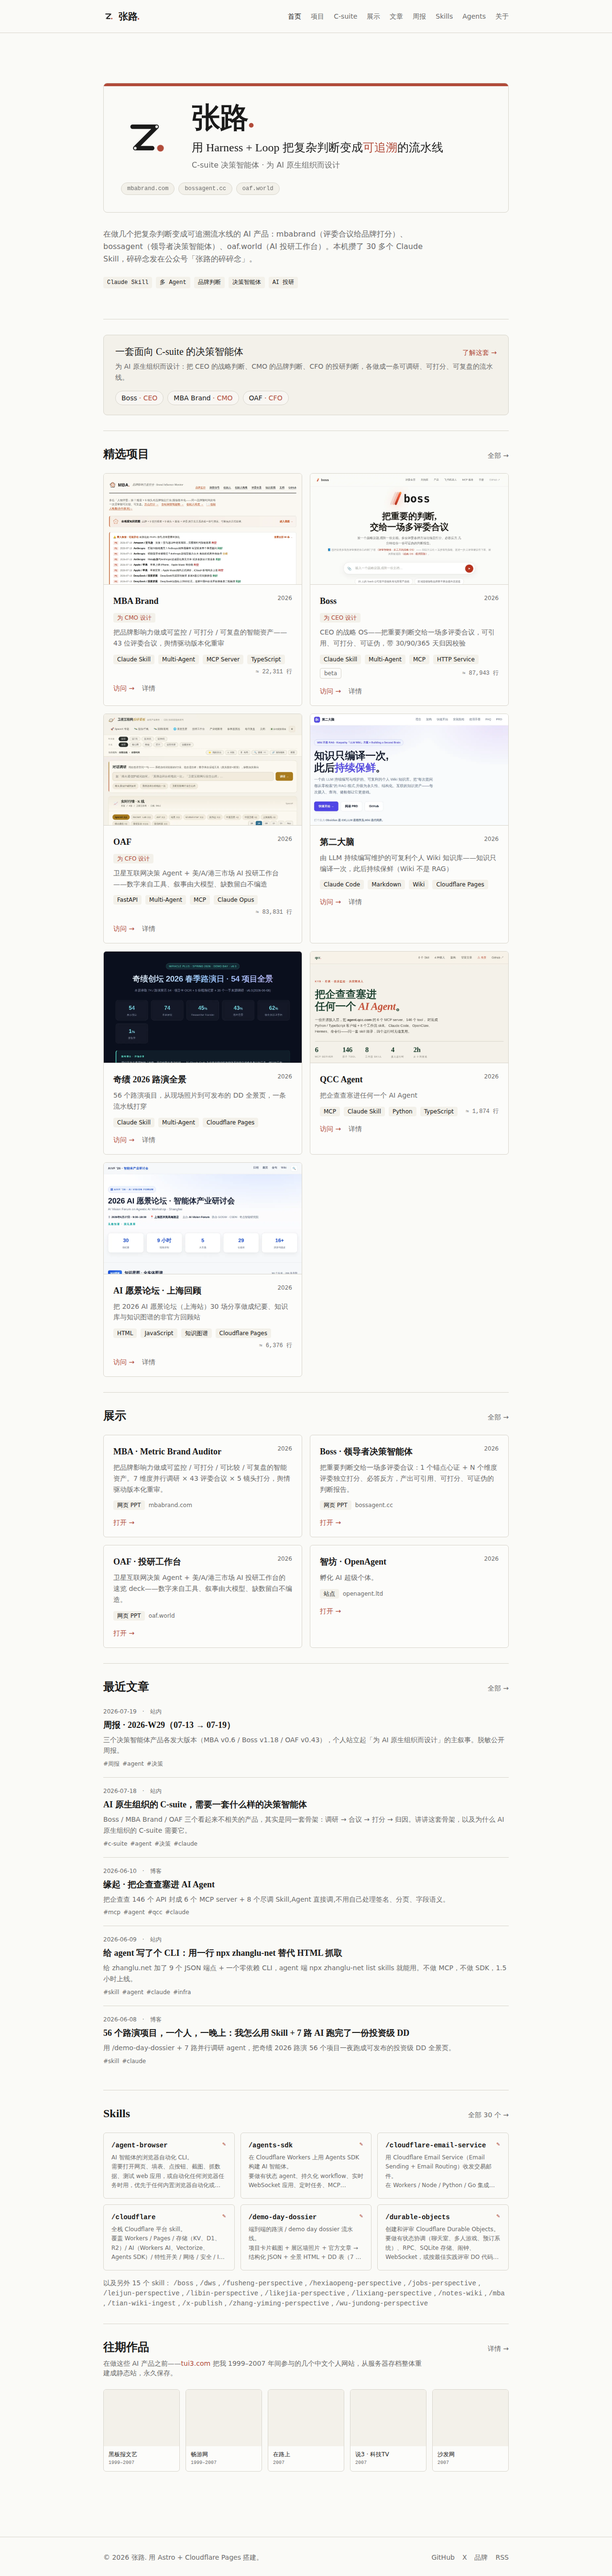
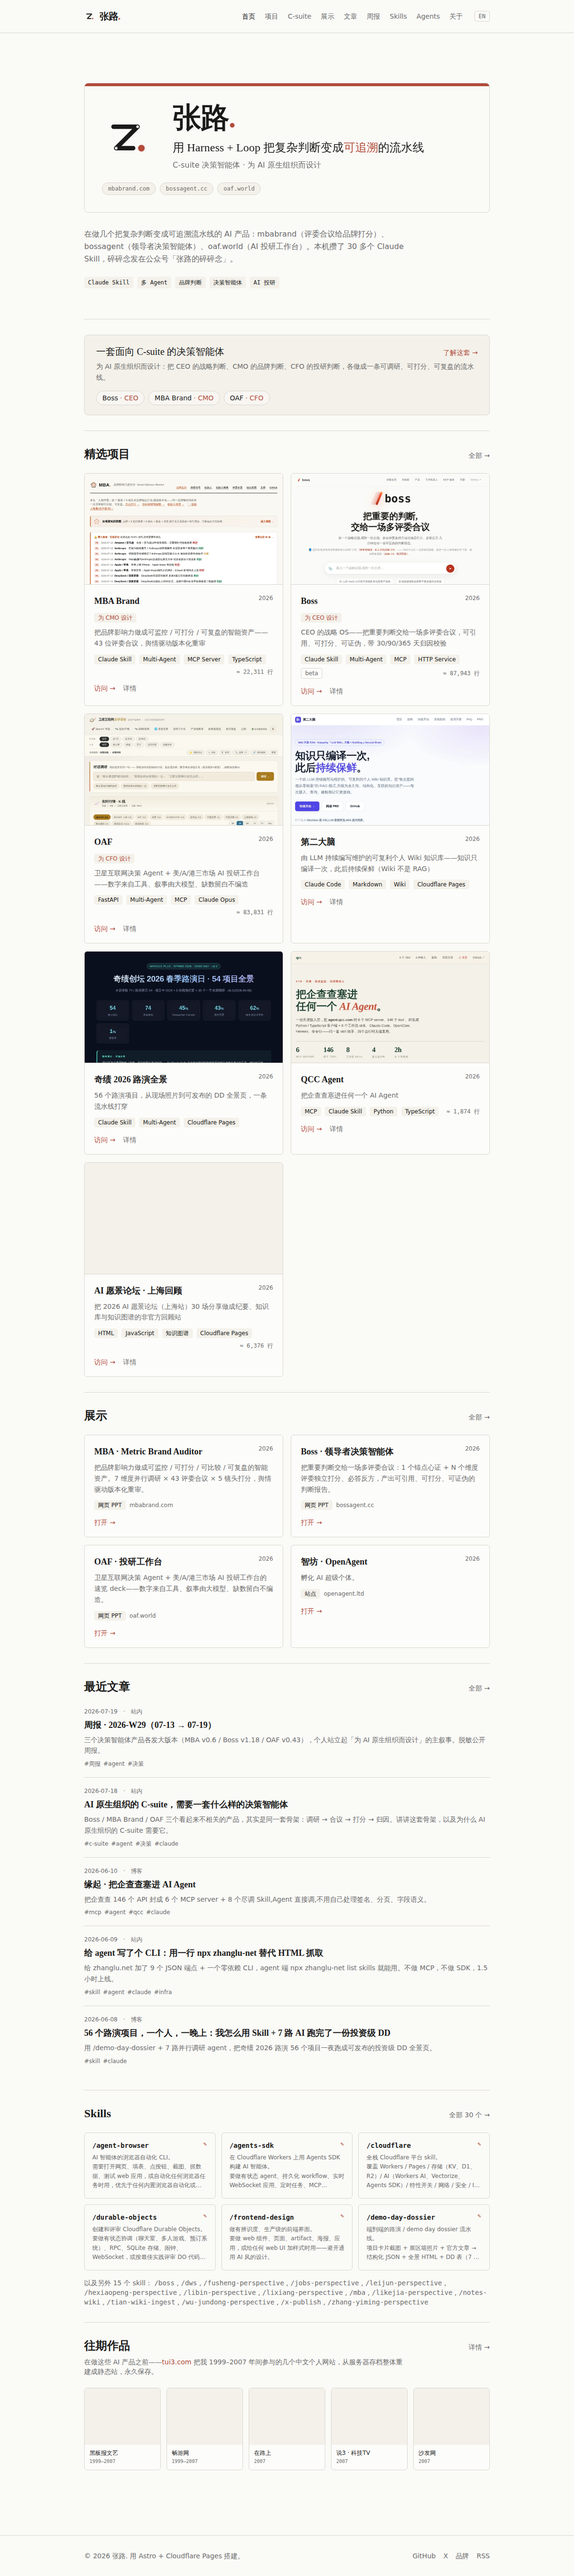
release: v0.3.0 —— 更新网站说明与接入指南
发版:
- package.json 0.2.0 → 0.3.0
- CHANGELOG 新增 [0.3.0]：按 新增/变更/修复/已知限制 覆盖 0.2.0 后的 30 个提交
  （全站双语、C-suite 专题与两套 logo、aip/tui3、周报、agent 接入层双语化、
  CLI 发 npm、真 404、_headers、Content-Signal、开发纪律）
- 顶部加版本号说明：本文件记站点版本，CLI 是独立 npm 包，两者不同步

接入指南 /agents + /en/agents:
- 新增「准入与授权」节：robots 全放行 + Content-Signal 三条立场逐条解释
  （可以读、可以引用，请别拿去训练）+ 引用礼仪 + 速率说明
- CLI 段改为「已发布在 npm」，版本号 build 时从 cli/package.json 读出来（别写死）

网站说明 README:
- 双语入口 + agent 入口；端点表补 presentations/weekly/en 平行版；
  CLI 示例补 list weekly / --lang en / help <command>
- 预览区加英文首页 + /agents 截图；重截 home.png
- 删掉「CDN cache 友好」的错误说法（实测 cf-cache-status: DYNAMIC）

AGENTS 去过时:
- §1 语言行改双语 + 加版本行；§3 目录树补 i18n/lib/*En/pages/en/404/_headers/cli/dev-log
- §11 快照更新，写明每集合有 1:1 英文平行版、改内容两边都要动

验证：pnpm run build → Complete（107 页）；/agents 双语渲染出 v0.2.0 与新章节，
无残留字面 markdown 星号。dev-log 一条（含截图被自适应跳转坑到的记录）。

tag / GitHub Release 按 §8.1 留给人完成。

diff --git a/AGENTS.md b/AGENTS.md
@@ -8,7 +8,8 @@
 
 ## 1. 项目概览
 
-**zhanglu.net** —— 张路的个人站。聚合：项目、公众号文章入口、本机 Claude Skills 索引、社交链接。
+**zhanglu.net** —— 张路的个人站。聚合：项目、展示、公众号文章入口、公开周报、本机 Claude Skills 索引、社交链接。
+**中英双语**（中文在 `/`，英文在 `/en/`，见 §16），并对外提供 agent 机读接口（见 §14）。
 
 | 维度 | 现状 |
 |---|---|
@@ -19,7 +20,8 @@
 | 托管 | Cloudflare Pages（project name: `zhanglu-net`），DNS 同账号托管 |
 | 部署触发 | push `main` → CF Pages 自动构建部署，~1-2 分钟上线 |
 | PR 预览 | 自动出 `<branch>.zhanglu-net.pages.dev` |
-| 语言 | 中文为主，前端 lang="zh-CN" |
+| 语言 | **中英双语**：zh 在根路径（`lang="zh-CN"`），en 在 `/en/`（`lang="en"`）。首访按浏览器语言自适应，页头可手动切换 |
+| 版本 | 站点 `package.json`（当前 0.3.0）；CLI 独立发布在 npm（`cli/package.json`），两者不同步 |
 | 视觉 | 书卷气、低饱和度、衬线标题（Source Serif / Noto Serif SC）、`#b14b3a` 朱砂色 accent |
 
 ---
@@ -61,6 +63,10 @@ zhanglu/
 ├── .gitignore
 │
 ├── public/                        ← 原样拷贝到站点根
+│   ├── _headers                   ← ★ CF Pages 响应头: 显式声明 /api/* 与 /en/api/* 的 CORS
+│   ├── llms.txt                   ← agent 自发现入口 (中文)
+│   ├── en/llms.txt                ← ★ 英文版
+│   ├── robots.txt                 ← allow all + Content-Signal (见 §9.10)
 │   ├── favicon.svg                ← 深底方形 + 反白 Z 路 + 朱砂句点 (zhanglu logo 简化版)
 │   ├── wechat-qr.jpg              ← 公众号「张路的碎碎念」二维码 (258×258)
 │   ├── og/                        ← OG 分享图 (1200×630), <Base image="/og/xxx.png"> 挂载
@@ -70,14 +76,26 @@ zhanglu/
 │
 ├── src/
 │   ├── content/
-│   │   ├── config.ts              ← Zod schemas (改这里 = 改全站数据契约)
+│   │   ├── config.ts              ← Zod schemas (改这里 = 改全站数据契约); zh 与 *En 共用同一份 schema
 │   │   ├── projects/              ← 一个项目 = 一个 .md
-│   │   ├── articles/              ← 公众号 / 博客文章入口 = 一个 .md
-│   │   └── skills/                ← 30 个 skill, 16 个 sync 自动生成 + 14 个手写中文
+│   │   ├── articles/              ← 写作索引 (指向原始出处) = 一个 .md
+│   │   ├── presentations/         ← 网页版 PPT / 站点入口
+│   │   ├── weekly/                ← 公开周报 (脱敏版)
+│   │   ├── skills/                ← 30 个 skill, 16 个 sync 自动生成 + 14 个手写中文
+│   │   └── <coll>En/              ← ★ 每个集合的英文平行版 (projectsEn / articlesEn / ...)
+│   │
+│   ├── i18n/                      ← ★ 双语基建 (见 §16)
+│   │   ├── ui.ts                  ← UI 文案字典 (zh / en 两套, 加 key 要两边都加)
+│   │   └── utils.ts               ← getLangFromUrl / localizePath / stripLang / altPath
+│   │
+│   ├── lib/
+│   │   └── api.ts                 ← ★ 所有 API 端点的字段形状与 builder (zh/en 共用, 加字段只改这里)
 │   │
 │   ├── data/                      ← 静态 JSON, 给所有页面读
 │   │   ├── about.json             ← 名字 / tagline / bio / tags (首页 hero 直接读)
-│   │   └── social.json            ← GitHub / X / 公众号 (含 QR)
+│   │   ├── about.en.json          ← ★ 英文版
+│   │   ├── social.json            ← GitHub / X / 公众号 (含 QR)
+│   │   └── social.en.json         ← ★ 英文版
 │   │
 │   ├── components/
 │   │   ├── Header.astro           ← 导航栏 (首页/项目/文章/Skills/关于)
@@ -92,6 +110,12 @@ zhanglu/
 │   │
 │   ├── pages/                     ← Astro 文件系统路由
 │   │   ├── index.astro            ← 首页: hero + 精选项目 + 最近 5 篇文章 + Skills 概览
+│   │   ├── 404.astro              ← ★ 双语 404 (让不存在路径返回真 404, 见 §9.10)
+│   │   ├── api/                   ← JSON 端点 (薄包装, 字段在 src/lib/api.ts)
+│   │   ├── en/                    ← ★ 英文镜像: 每个 zh 页一份, 含 en/api/ 与 en/rss.xml.ts
+│   │   ├── weekly/{index,[slug]}.astro
+│   │   ├── posts/                 ← 站内长文
+│   │   ├── agents.astro           ← agent 接入指南
 │   │   ├── about.astro
 │   │   ├── brand.astro            ← 本站 logo 品牌页「一条路，一个句点」(Footer 有入口)
 │   │   ├── projects/{index,[slug]}.astro
@@ -102,6 +126,16 @@ zhanglu/
 │   │
 │   └── styles/
 │       └── global.css             ← Tailwind 4 import + @theme 自定义 + prose-zh 中文长文样式
+│
+├── cli/                           ← ★ 独立 npm 包 zhanglu-net (零依赖, 版本号独立于站点)
+│   ├── package.json
+│   ├── bin/zhanglu-net.mjs        ← 单文件; KINDS 表驱动 list/get/帮助
+│   └── README.md
+│
+├── docs/
+│   ├── dev-log/                   ← ★ 每次开发的过程记录 (见 §15)
+│   ├── agent-cli/                 ← 接口设计文档 / 开发记录
+│   └── brand/                     ← logo 设计说明
 │
 └── scripts/
     ├── sync-skills.mjs            ← ~/.claude/skills 同步 (含 symlink 支持)
@@ -505,7 +539,10 @@ YAML `|` block 在 frontmatter 里保留 `\n`，但 HTML 默认折叠空白。`S
 
 ---
 
-## 11. 当前内容快照（截至 2026-07-18）
+## 11. 当前内容快照（截至 2026-07-25，站点 v0.3.0）
+
+> **每个集合都有平行的英文版**（`src/content/<coll>En/`，同 slug、同数量）。下表是中文侧；
+> 英文侧数量 1:1 对齐（见 §16）。改内容时**两边都要动**。
 
 | collection | 数量 | featured |
 |---|---|---|
@@ -515,7 +552,12 @@ YAML `|` block 在 frontmatter 里保留 `\n`，但 HTML 默认折叠空白。`S
 | weekly | 1 | 2026-w29 (脱敏公开周报, 集合 src/content/weekly + /weekly 索引 + [slug] 页) |
 | skills | 30 | zhanglu（14 个 handwritten:true） |
 
-`src/data/about.json` 当前 hero / bio 是基于公开项目信息撰写的占位描述，可随时替换为本人定义版。
+`src/data/about.json` 当前 hero / bio 是基于公开项目信息撰写的占位描述，可随时替换为本人定义版
+（英文版在 `about.en.json`）。
+
+**页面规模**：`pnpm build` 产出 107 页 —— 中文 53 + 英文 53 + 404。
+**机读层**：22 个 JSON 端点（11 类 × 2 语言）+ 双语 `llms.txt` + 分语言 RSS。
+**CLI**：`zhanglu-net` 已发布 npm（版本号在 `cli/package.json`，与站点版本独立）。
 
 ---
 

diff --git a/CHANGELOG.md b/CHANGELOG.md
@@ -2,6 +2,73 @@
 
 本文件记录 [zhanglu.net](https://zhanglu.net) 站点的版本更新，采用 [Keep a Changelog](https://keepachangelog.com/zh-CN/) 风格，遵循 [语义化版本](https://semver.org/lang/zh-CN/)。
 
+> 版本号说明：本文件记的是**站点**版本（`package.json`）。CLI 是独立发布的 npm 包，
+> 版本号在 `cli/package.json`，与站点版本不同步（当前 `zhanglu-net@0.2.0`）。
+
+## [0.3.0] - 2026-07-25
+
+站点最大的一次改动：**全站中英双语**，外加把 agent 接入层补成双语、CLI 正式发到 npm。
+
+### 新增
+
+- **全站英文版**（`/en/` 子路径，53 页）—— 中文默认在根路径，英文在 `/en/`。
+  - 浏览器**首访按语言自适应**跳转；页头「中 / EN」手动切换并**记住选择**（之后以选择为准）。
+  - 每个集合有平行 `*En` 版（projects / articles / presentations / skills / weekly），zh 集合零改动。
+  - SEO：`<html lang>`、`hreflang`（zh-CN / en / x-default）、`og:locale`、分语言 RSS（`/en/rss.xml`）、sitemap i18n。
+  - UI 文案进 `src/i18n/ui.ts` 字典；helpers 在 `src/i18n/utils.ts`。
+- **C-suite 决策智能体专题**（`/c-suite`）—— Boss（CEO）· MBA Brand（CMO）· OAF（CFO）三件套定位「为 AI 原生组织而设计」，含
+  三个席位介绍、共同方法论、[设计思想长文](https://zhanglu.net/posts/c-suite-design)、
+  [品牌页](https://zhanglu.net/c-suite/brand)（logo「三弧一点，一枚印」四变体）与 OG 分享图。
+- **本站 logo「一条路，一个句点」** + [品牌页 `/brand`](https://zhanglu.net/brand)（四变体 + 新 favicon），
+  首页 hero 换成带绘制动画的标识版式，配首页 OG 分享图。
+- **第二大脑**（<https://aip.cab>）项目。
+- **往期作品 · tui3.com** 网站存档项目（archived），首页加 5 个子站截图画廊。
+- **公开周报**（`/weekly`）—— 新增 `weekly` 集合 + 索引 + 单页，首篇 2026-W29 脱敏版。
+- **全项目网站截图封面** —— `projects` 的 `cover` 字段现在会渲染（卡片顶部 banner + 详情页）。
+- **项目人群标注** —— `projects` schema 加 `persona`，卡片 / 详情页显示朱砂徽章「为 CEO/CMO/CFO 设计」。
+- **Agent 接入层双语化**：`/en/api/*` 一整套英文端点（读 `*En` 集合），响应带 `lang` 字段，
+  `/api/index.json` 加 `languages` 交叉链接；新增 `/en/llms.txt`。
+- **`/api/weekly.json` + `/api/weekly/{slug}.json`**（zh/en 各一对），weekly 同时进 `/api/search.json` 语料。
+- **`zhanglu-net` CLI 发布到 npm**（`0.2.0`）—— `npx zhanglu-net <cmd>` 对任何人可用；
+  新增 `--lang zh|en`、`list/get presentations`、`list/get weekly`、真正分命令的 `help <command>`。
+- **真 404** —— 新增双语 `src/pages/404.astro`。此前不存在的路径返回 `200` + 中文首页，
+  agent 无法用状态码判断端点是否存在；现在返回 `404`。
+- **`public/_headers`** —— 显式声明 `/api/*` 与 `/en/api/*` 的 `Access-Control-Allow-Origin: *`
+  （静态构建下端点代码里设的响应头不落盘，CORS 实际由托管层决定，不该依赖未声明的默认值）。
+- **`Content-Signal`**（`public/robots.txt`）—— `search=yes, ai-input=yes, ai-train=no`：
+  欢迎索引、欢迎 agent 实时读取引用，不同意用于模型训练。含 Content Signals Policy 标准前言。
+- **开发纪律与过程记录**（`AGENTS.md` §15 + `docs/dev-log/`）—— 采纳 Superpowers 内核的原生版：
+  计划 → 改 → **验证** → 过程记录；并回溯补写了 07-18→07-25 共 12 条 dev-log。
+
+### 变更
+
+- 首页标语改为「用 Harness + Loop 把复杂判断变成可追溯的流水线」（同步 `about.json` / `llms.txt` / OG 图）。
+- **手机阅读优化** —— 导航改单行横滑；修 390px 视口下三处横向溢出（grid 隐式轨道 + `<pre>`、
+  长英文 token 不断行、导航换行）；`.prose-zh` 表格 ≤640px 整表横滑。
+- **端点字段收敛到 `src/lib/api.ts` 单一定义** —— 原来 10 个端点各自内联字段形状，已经漂过一次
+  （列表有 `loc/persona/cover`、详情没有）。现在 zh / en 共用同一份 builder，加字段只改一处。
+- `/agents` 与 `/en/agents` 补 `presentations` / `weekly` 端点、双语说明、`--lang`；
+  **CLI 行数改为 build 时 `readFileSync` 数出来**（此前文案写死「270 行」，实际早已不是）。
+- `docs/agent-cli/design.md` 中「❌ 不做 i18n 端点」的决策标记为**已推翻**（前提「站点单语 zh-CN」不再成立）。
+
+### 修复
+
+- `/en/agents` 端点表原本指向 `/api/*`（中文 payload）却在页面上承诺英文样例（`"name": "Zhang Lu"`）
+  —— 现指向 `/en/api/*`，实际返回英文。
+- 英文搜索此前几乎必然 0 命中（`/api/search.json` 只含中文语料）—— 现在 `/en/api/search.json` 含英文正文。
+- `/api/projects/{slug}.json` 补回列表里有、详情里缺的 `loc` / `persona` / `cover`。
+- CLI：`| head` 触发未捕获 EPIPE 打一屏堆栈（对主要在管道里调用的 CLI 是硬伤）；
+  版本号两处硬编码会漂（改为运行时读 `package.json`）；`--limit abc` / `--source` 用错类型等
+  非法用法此前静默返回空 = 假成功，现在一律明确报错 + exit 1。
+- 移除 README / skill 描述里「CDN cache 友好」的错误说法（端点实际响应头是
+  `cache-control: public, max-age=0, must-revalidate`，`cf-cache-status: DYNAMIC`，边缘并未缓存）。
+
+### 已知限制
+
+- 项目卡片上的**网站截图仍是中文**（三个产品本身是中文界面），`articles` 的外链同样指向中文原文
+  —— 英文版翻的是站内文案与正文，不是被链接的外部原文。
+- `/en/brand` 刻意保留「张路 / 路」二字：整个 logo 概念就是解释名字里的「路」= road。
+
 ## [0.2.0] - 2026-07-18
 
 ### 新增

diff --git a/docs/dev-log/2026-07-25-release-v0.3.0.md b/docs/dev-log/2026-07-25-release-v0.3.0.md
@@ -1,0 +1,59 @@
+# 2026-07-25 · 发版 v0.3.0 + 更新网站说明与接入指南
+
+## 目标
+
+用户：「发版，更新网站说明和接入指南」。即三件事：站点 v0.3.0（bump + CHANGELOG）、
+README（网站说明）反映现状、`/agents` 接入指南补齐这轮新增的能力与授权立场。
+
+## 改动
+
+**发版**
+- `package.json` — 站点版本 `0.2.0` → `0.3.0`。
+- `CHANGELOG.md` — 新增 `[0.3.0] - 2026-07-25`，按 新增 / 变更 / 修复 / 已知限制 分组，
+  覆盖 0.2.0 之后的 **30 个提交**：全站双语、C-suite 专题与两套 logo、aip / tui3、周报、
+  agent 接入层双语化 + weekly 端点、CLI 发 npm、真 404、`_headers`、`Content-Signal`、开发纪律。
+  顶部加了一行**版本号说明**：本文件记站点版本，CLI 是独立发布的 npm 包，两者不同步
+  （两个 `package.json` 都叫 0.2.0 过，容易混）。
+
+**接入指南 `/agents` + `/en/agents`**
+- 新增「准入与授权 / Access & permissions」一节：robots 全放行 + `Content-Signal` 三条立场逐条解释，
+  一句话总结「可以读、可以引用，请别拿去训练」；附引用礼仪（用 `permalink` 回链）与速率说明。
+- CLI 段改为「已发布在 npm」，**版本号 build 时从 `cli/package.json` 读出来**
+  （和之前的 `cliLines` 一个套路 —— 写死的数字必漂）。离线跑源码的说法降级为备选而非主路径。
+
+**网站说明 `README.md`**
+- 顶部补双语入口 + agent 入口（`/llms.txt`、`/agents`、`npx zhanglu-net`）。
+- 技术栈补双语架构一段；内容更新速查表加两行（写英文版内容、改双语 UI 文案）。
+- agent 章节：补 `lang` 字段、真 404、授权立场；端点表补 `presentations` / `weekly` / en 平行版说明，
+  字段列补 `persona` / `cover`；CLI 示例补 `list weekly` / `--lang en` / `help <command>`。
+- 预览区新增一行：英文版首页 + `/agents` 截图。
+- 设计原则补两条：字段只定义一次（`src/lib/api.ts`）、状态码可信。
+
+**`AGENTS.md` 去过时**
+- §1 概览：语言行改成双语描述；加版本行（站点 vs CLI 独立）。
+- §3 目录树：补 `src/i18n/`、`src/lib/api.ts`、`src/content/<coll>En/`、`src/pages/en/`、
+  `404.astro`、`public/_headers`、`public/en/llms.txt`、`cli/`、`docs/dev-log/`。
+- §11 快照：日期与版本更新；写明**每个集合都有 1:1 的英文平行版、改内容两边都要动**；
+  补页面规模（107 页）、机读层（22 端点）、CLI 发布状态。
+
+## 验证
+
+- `pnpm run build` → **Complete，107 页**（每步改完都跑）。
+- `/agents` 与 `/en/agents` 渲染出 `v0.2.0`（从 `cli/package.json` 读的，与 `node -p` 一致）；
+  「准入与授权」段和 `Content-Signal` 三条立场都在；**无残留字面 `**`**（一处 markdown 加粗
+  误写进 Astro 模板，已改成 `<strong>`）。
+- 截图：新截 `home.png` / `home-en.png` / `agents.png`。
+
+## 踩坑
+
+- **自己做的语言自适应把截图坑了**：Playwright 默认 locale 是 `en-US`，截 `/` 时被自适应脚本
+  跳到 `/en/` —— 中英两张截图内容几乎一样（文件大小 837814 vs 837831 露了馅）。
+  修法：截图时显式给 context 设 `locale`（zh 页用 `zh-CN`），并**打印最终 URL 确认没被重定向**。
+  以后任何针对本站的自动化截图 / 抓取都要注意这条。
+- Markdown 语法（`**bold**`）写进 `.astro` 模板不会渲染，会显示字面星号 —— 得用 `<strong>`。
+
+## 结论与交付物
+
+站点 v0.3.0 已提交（tag / GitHub Release 按 §8.1 留给人在 UI 或本地 gh 完成）。
+README、`/agents`（双语）、`AGENTS.md` §1 / §3 / §11 全部与现状对齐；
+会漂的数字（CLI 行数、CLI 版本号）都改成 build 时计算。

diff --git a/docs/dev-log/README.md b/docs/dev-log/README.md
@@ -60,6 +60,7 @@ docs/dev-log/YYYY-MM-DD-<关键词>.md
 
 新的在上。这段是导航，别当唯一事实源 —— 目录里的 `YYYY-MM-DD-*.md` 才是。
 
+- `2026-07-25-release-v0.3.0.md` — 发版 v0.3.0 + 更新 README / `/agents` / AGENTS 快照
 - `2026-07-24-agent-api-cli-bilingual.md` — Agent 接入层：CLI 修缺陷 + `/en/api/*` 英文端点 + 真 404
 - `2026-07-24-i18n-english-version.md` — 全站英文版：双语 i18n（浏览器自适应 + 手动切换）
 - `2026-07-21-devlog-discipline.md` — 本套开发纪律与 dev-log 约定的落地
